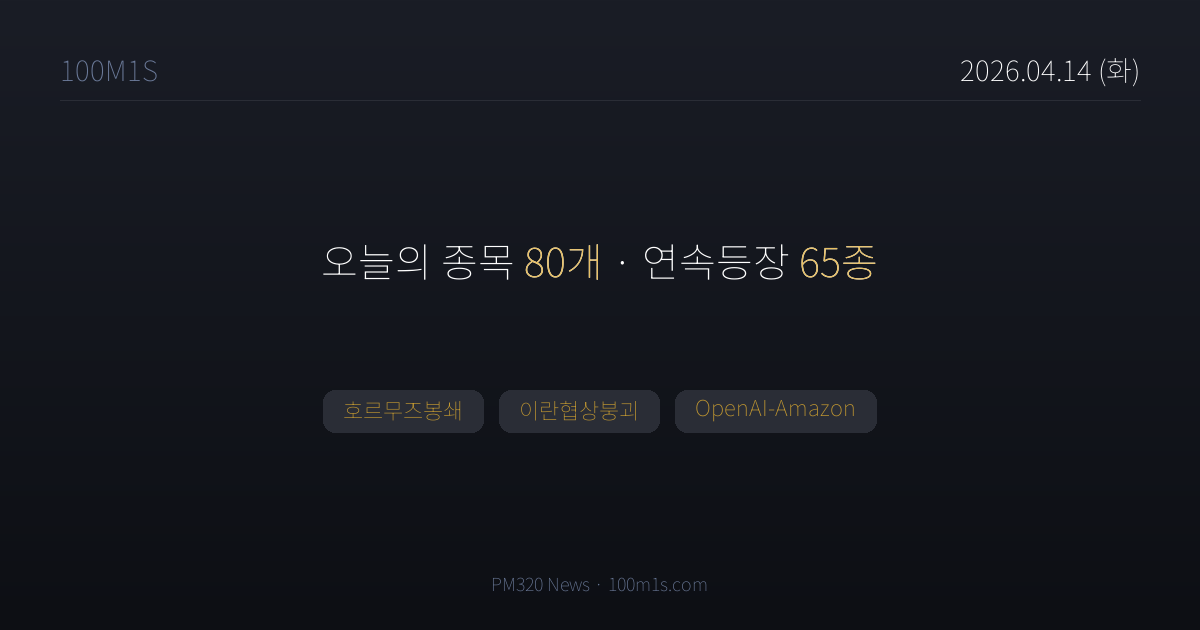
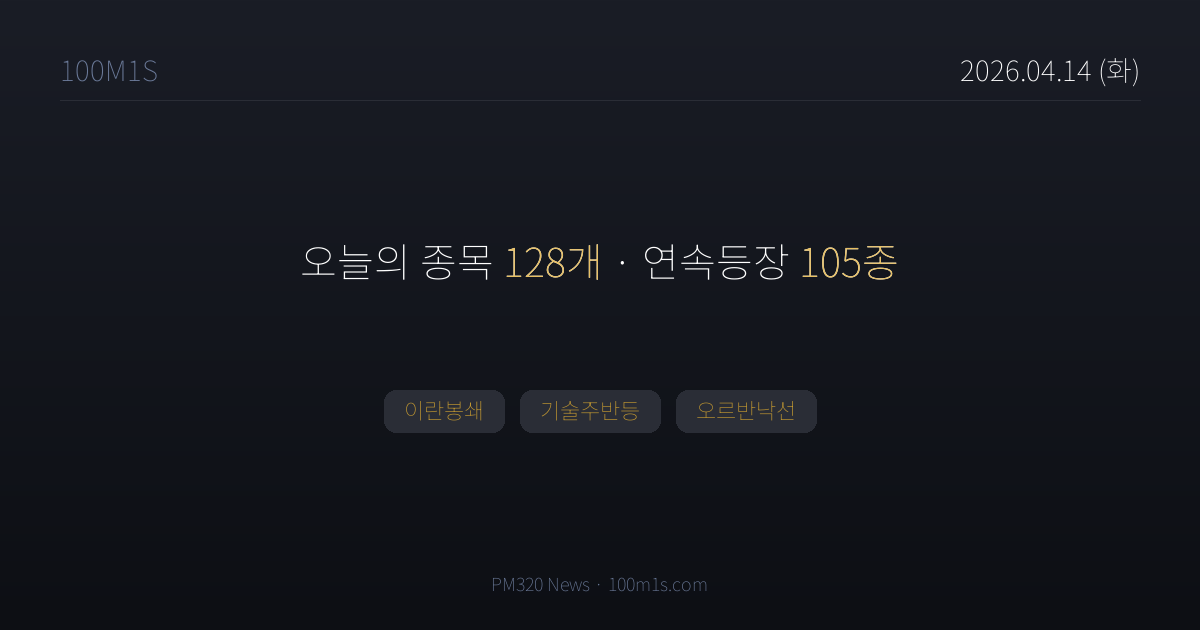
chore(news): 2026-04-14T05:20 pipeline

Changed region(s): [[0.2467, 0.6032, 0.74, 0.6937], [0.2467, 0.3921, 0.4625, 0.4524], [0.6475, 0.3921, 0.74, 0.4524]]

diff --git a/news/2026-04-14.html b/news/2026-04-14.html
@@ -3,8 +3,8 @@
 <head>
 <meta charset="UTF-8">
 <title>4월 14일 (화) 뉴스 — 100M1S</title>
-<meta property="og:title" content="4월 14일 (화) · 종목 80개">
-<meta property="og:description" content="호르무즈봉쇄, 이란협상붕괴, OpenAI-Amazon">
+<meta property="og:title" content="4월 14일 (화) · 종목 128개">
+<meta property="og:description" content="이란봉쇄, 기술주반등, 오르반낙선">
 <meta property="og:image" content="https://100m1s.com/og/2026-04-14.png">
 <meta property="og:image:width" content="1200">
 <meta property="og:image:height" content="630">
